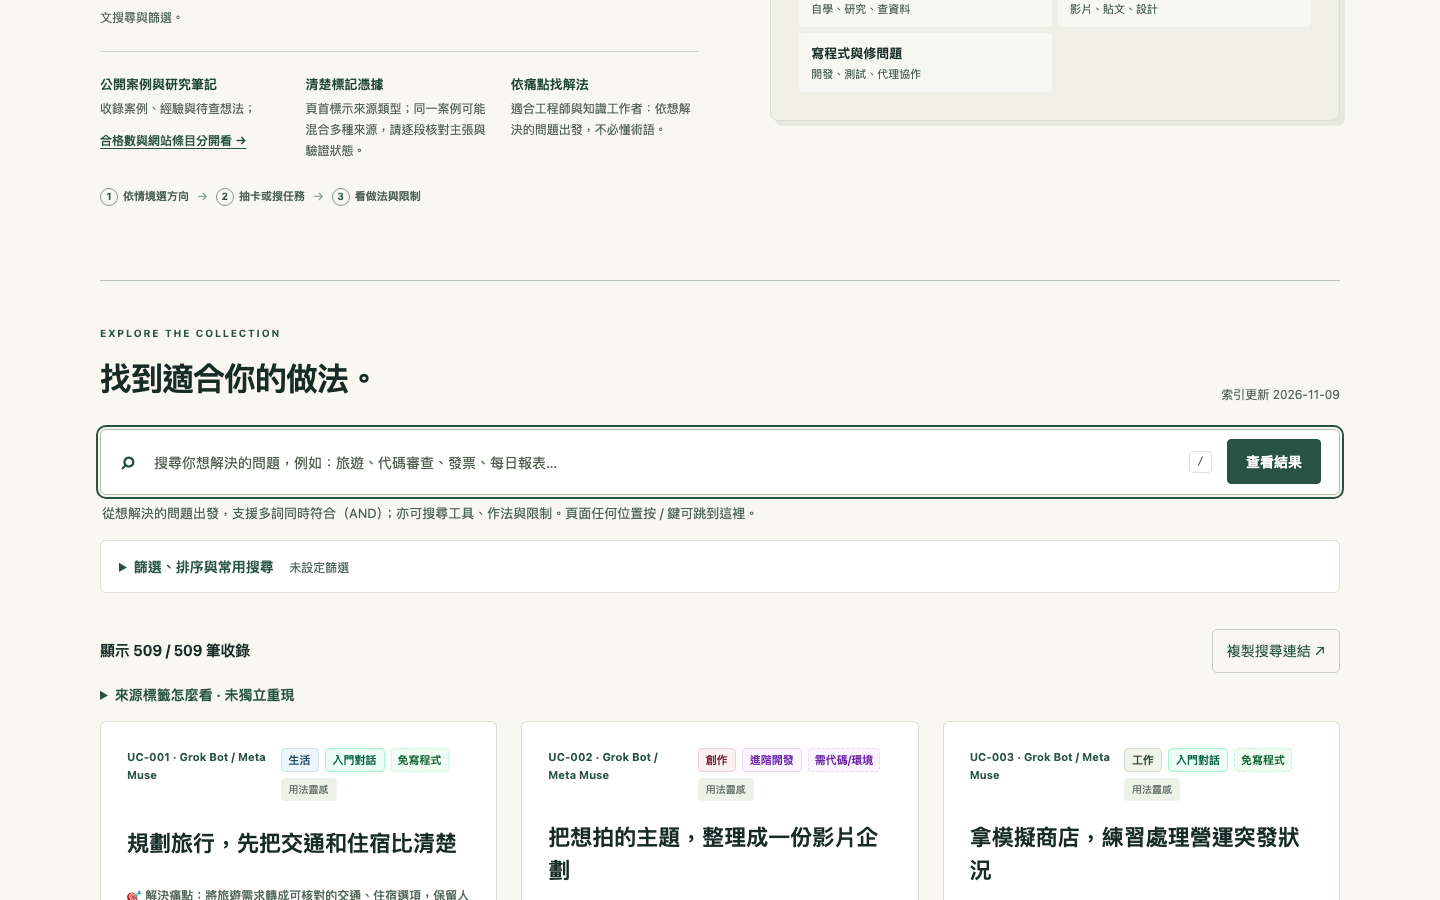
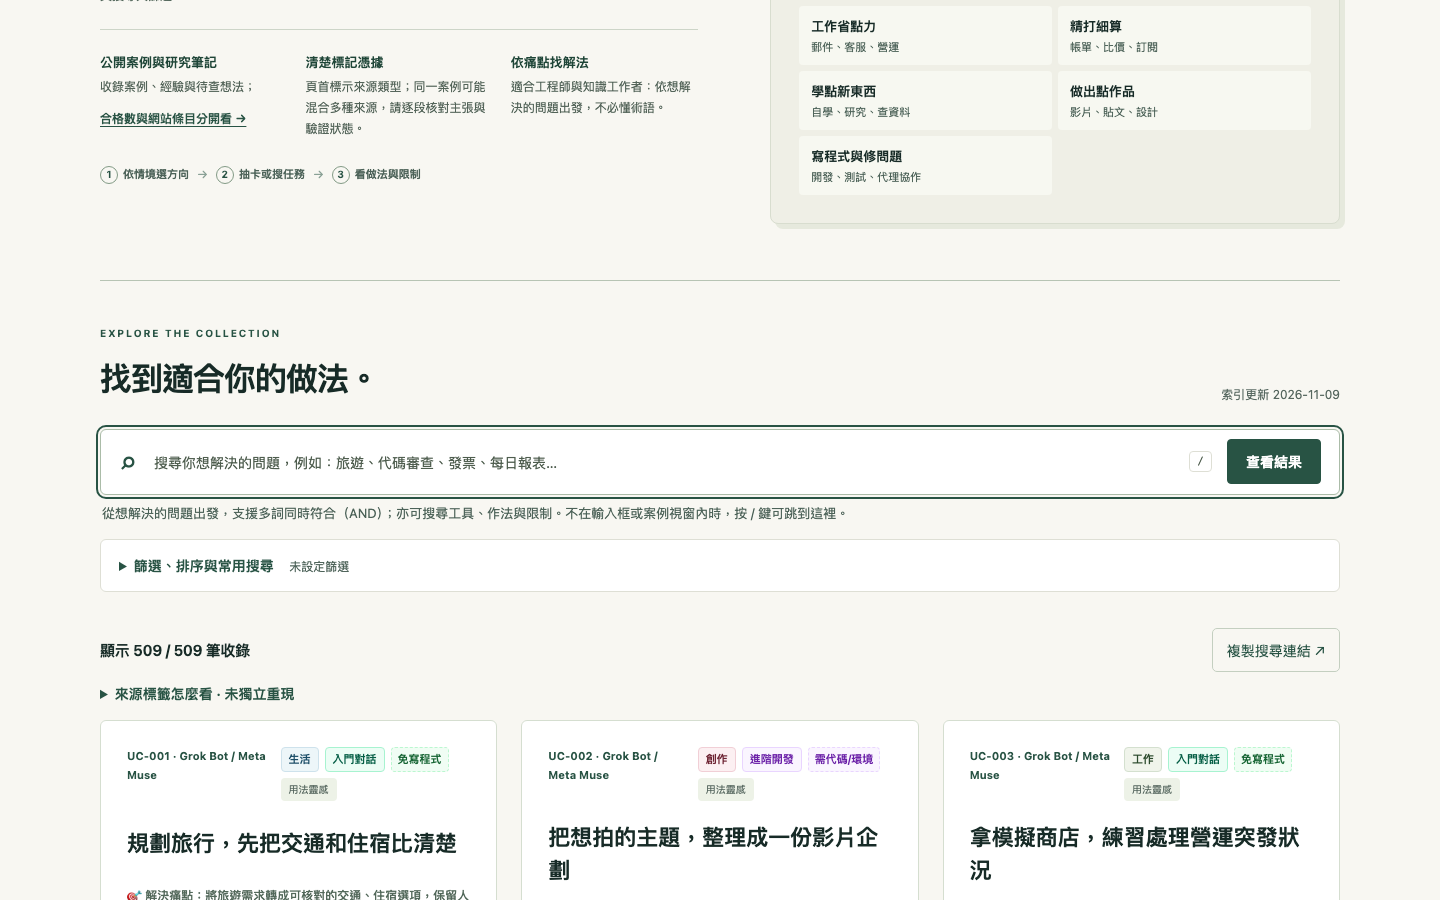
Speak the card a facet change replaced, and re-announce an empty pool
Independent review found two announcement gaps in 2c7e5e3f:

- A facet the reader chose that excluded the drawn card replaced it silently,
  because every automatic redraw used announce=false. The draw now compares the
  query with the one that produced the current deck: same query means the pool
  changed because of a facet (announce), a different query means the reader is
  typing (stay quiet).
- The empty-pool announcement was deduplicated by its text, so leaving the empty
  state and returning to it spoke nothing. Announcements now deduplicate on a
  state key (empty / card:<id> / milestone:<n>).

Also narrows the / shortcut hint to the contexts where the handler actually runs,
and corrects the QA record's measurement provenance (baseline local preview, not
the live site) plus its numbers.

Tests: 10 unit tests (was 9), browser test now also checks the facet-driven
replacement announcement.

diff --git a/index.html b/index.html
@@ -75,7 +75,7 @@
 </section>
 </div><section id="explore" class="explore"><div class="section-head"><div><p class="eyebrow">EXPLORE THE COLLECTION</p><h2 id="search-title" tabindex="-1">找到適合你的做法。</h2></div><span id="updated" class="muted"></span></div>
 <section id="missing-case" class="missing-case" aria-labelledby="missing-case-title" hidden><div><p class="eyebrow">分享連結未能開啟</p><h3 id="missing-case-title" tabindex="-1">找不到這個案例</h3><p id="missing-case-message" role="status" aria-live="polite" aria-atomic="true"></p><p>你仍可搜尋其他案例；原有關鍵字與篩選已保留。</p></div><button id="dismiss-missing-case" type="button">回到搜尋</button></section>
-<form id="filters" role="search"><label class="search-label" for="query">搜尋全部案例內容</label><div class="search-wrap"><span aria-hidden="true">⌕</span><input id="query" name="q" type="search" placeholder="搜尋你想解決的問題，例如：旅遊、代碼審查、發票、每日報表…" autocomplete="off" aria-describedby="search-hint search-submit-hint"><kbd aria-hidden="true">/</kbd><button id="search-submit" class="primary-button" type="submit" aria-describedby="search-submit-hint" disabled>查看結果</button></div><p id="search-hint" class="search-hint">從想解決的問題出發，支援多詞同時符合（AND）；亦可搜尋工具、作法與限制。頁面任何位置按 / 鍵可跳到這裡。</p><p id="search-submit-hint" class="sr-only">結果會即時更新；按 Enter 或「查看結果」前往閱讀。</p><details id="filter-options" class="filter-options" open><summary id="filter-summary">篩選、排序與常用搜尋 <span id="filter-count">未設定篩選</span></summary><div class="filter-panel"><div class="filter-outcome"><span id="filter-outcome-count">正在讀取案例…</span><button id="filter-view-results" type="button" disabled>查看結果與調整建議 ↓</button></div><div class="scenario-chips" id="scenario-chips" role="group" aria-label="依情境或常用搜尋快速探索">
+<form id="filters" role="search"><label class="search-label" for="query">搜尋全部案例內容</label><div class="search-wrap"><span aria-hidden="true">⌕</span><input id="query" name="q" type="search" placeholder="搜尋你想解決的問題，例如：旅遊、代碼審查、發票、每日報表…" autocomplete="off" aria-describedby="search-hint search-submit-hint"><kbd aria-hidden="true">/</kbd><button id="search-submit" class="primary-button" type="submit" aria-describedby="search-submit-hint" disabled>查看結果</button></div><p id="search-hint" class="search-hint">從想解決的問題出發，支援多詞同時符合（AND）；亦可搜尋工具、作法與限制。不在輸入框或案例視窗內時，按 / 鍵可跳到這裡。</p><p id="search-submit-hint" class="sr-only">結果會即時更新；按 Enter 或「查看結果」前往閱讀。</p><details id="filter-options" class="filter-options" open><summary id="filter-summary">篩選、排序與常用搜尋 <span id="filter-count">未設定篩選</span></summary><div class="filter-panel"><div class="filter-outcome"><span id="filter-outcome-count">正在讀取案例…</span><button id="filter-view-results" type="button" disabled>查看結果與調整建議 ↓</button></div><div class="scenario-chips" id="scenario-chips" role="group" aria-label="依情境或常用搜尋快速探索">
   <div class="chips-row">
     <span class="chips-title">依情境探索：</span>
     <button type="button" class="chip" data-scenario="生活" aria-pressed="false">🏖 生活日常</button>

diff --git a/docs/qa/2026-11-09-keyboard-search-entry/README.md b/docs/qa/2026-11-09-keyboard-search-entry/README.md
@@ -11,14 +11,14 @@
 
 目標使用者是**只用鍵盤或讀屏**第一次到站的人。首頁是長篇編輯頁：搜尋框在 hero、任務目錄與抽卡區之後。
 
-正式站實測（Chromium，`reducedMotion: reduce`，見 `before-measurements.json`）：
+量測方式是**基準版本的本機預覽**：`git worktree add --detach /tmp/aiuc-baseline-61225e78 61225e78` ＋ `scripts/preview.py`，以 Chromium（`reducedMotion: reduce`）開啟 `http://127.0.0.1:8098/ai-agent-use-cases/`；修改後以同樣方式開 `…:8097/…`。兩份數據都在 `before-measurements.json`／`after-measurements.json`（`url` 欄位記錄了受測來源），不是對 richardhan.github.io 的即時量測。首頁隨機抽卡的高度每次不同，因此「捲動量」與 `queryTop` 的絕對值會浮動；下表數字照抄該次 JSON，關鍵不變量是 `activeElement`、`location.hash` 與 live region 寫入次數。
 
 | 項目 | 1440×900 | 390×844 |
 | --- | --- | --- |
 | `#query` 之前的可聚焦元素 | 82 | 39 |
 | 第一個 Tab 停在哪 | `a.skip`「跳到案例探索」 | 同左 |
-| 按 Enter 之後 | `activeElement` = `BODY`，`location.hash=#discover`，捲到抽卡區（`queryTop` 1507px） | `BODY`，`#discover`（`queryTop` 1561px） |
-| 輸入 4 個字造成的 live region 寫入 | **12 次**（`draw-status` 4、`results-count` 4、`filter-outcome-count` 4） | 同左（手機兩個筆數區都可見，等於同一件事播兩次） |
+| 按 Enter 之後（基準） | `activeElement` = `BODY`，`location.hash=#discover`，捲到抽卡區（`scrollY` 128、`queryTop` 1400） | `BODY`，`#discover`（`scrollY` 1128、`queryTop` 1480） |
+| 輸入 4 個字造成的 live region 寫入（基準） | **12 次**（`draw-status` 4、`results-count` 4、`filter-outcome-count` 4） | 同左（手機兩個筆數區都可見，等於同一件事播兩次） |
 
 也就是說：跳至內容連結指向的是隨機抽卡區，不是搜尋表單，啟動後焦點回到 `body`；讀屏使用者每打一個字會收到三次播報，其中兩次是抽卡狀態與重複的結果筆數。另有 `#scenario-chips` 標成 `role="toolbar"` 卻沒有 roving tabindex／方向鍵，與 ARIA 對 toolbar「單一停留點」的承諾不符。
 
@@ -43,10 +43,11 @@
   - 新增 `announceDraw(text)`：只在文字真的改變時寫入 `#draw-announcer`。
   - `drawNext(announce=false)`：只有讀者自己按「抽一張／再抽一張」（`drawFromButton` 傳 `true`）才播報「已換一張：<標題>」；輸入關鍵字造成的自動換卡不播報，因為讀者正在打字。
   - 載入進度里程碑與載入失敗改由 announcer 播報，可見文字仍寫在 `#draw-status`。
-  - `syncDiscovery()`：補上 `discoveryKey=key`（原本這個守門變數只在載入開始被設成 `''`，等於永遠不生效，每次 render 都重建牌組）；空牌組時播報一次固定句子。
+  - `syncDiscovery()`：補上 `discoveryKey=key`（原本這個守門變數只在載入開始被設成 `''`，等於永遠不生效，每次 render 都重建牌組）；空牌組時播報一次固定句子，並用狀態鍵（`empty`／`card:<id>`／`milestone:<n>`）去重，讓「離開空狀態後再回到空狀態」仍會再播一次。
+  - 自動換卡是否播報，由「這次重繪的關鍵字是否與上次相同」決定：關鍵字沒變（讀者動的是情境／門檻等篩選）就播報新卡；關鍵字變了（正在打字）就保持安靜。
   - `.skip` 點擊時聚焦 `#query`（沒有 JS 時 `href="#query"` 仍會捲到同一個位置）。
-- `tests/keyboard-search-entry.test.cjs`（新，9 項）：bypass 目標、三個 live region 契約、`role="group"`、相同池不重建牌組也不改狀態、保留卡片不播報、自動換卡不播報、明確抽卡播一次、空牌組只播一次、同一張卡重抽不播。
-- `tests/keyboard-search-entry-browser.cjs`（新）：1440×900 與 390×844 各跑一次「Tab→Enter 到搜尋框且在視窗內」、輸入時 live 寫入只落在 `#results-count`、按「再抽一張」只播一則且含新標題、axe WCAG 2.1 AA 0 違規。
+- `tests/keyboard-search-entry.test.cjs`（新，10 項）：bypass 目標、三個 live region 契約、`role="group"`、相同池不重建牌組也不改狀態、保留卡片不播報、打字換卡不播報、**動篩選換卡要播報**、明確抽卡播一次、空牌組只播一次、**離開再回到空牌組要再播**。
+- `tests/keyboard-search-entry-browser.cjs`（新）：1440×900 與 390×844 各跑一次「Tab→Enter 到搜尋框且在視窗內」、輸入時 live 寫入只落在 `#results-count`、**讀者改門檻排除目前卡片時恰播一則且含新標題**、按「再抽一張」只播一則且含新標題、axe WCAG 2.1 AA 0 違規。
 - `.github/workflows/website-qa.yml`：updated-site 階段加入 `KEYBOARD_URL=… node tests/keyboard-search-entry-browser.cjs`。
 - `README.md`：補一段鍵盤動線與 `/` 快捷鍵的訪客可見說明。
 
@@ -54,22 +55,23 @@
 
 先紅後綠：
 
-- 單元測試複製到基準 `61225e78` 的隔離 checkout（`git worktree add --detach /tmp/aiuc-baseline-61225e78 61225e78`）執行 → `pass 1 / fail 8`（唯一通過的是「保留卡片不播報」，在基準上因為沒有 announcer 節點而顯得成立）。
-- 瀏覽器測試對基準預覽（`http://127.0.0.1:8098/ai-agent-use-cases/`）失敗於 `desktop: the bypass link must name the search destination`；修正後對預覽連跑 3 次全過，輸出 `KEYBOARD_SEARCH_ENTRY …`。
+- 單元測試複製到基準 `61225e78` 的隔離 checkout（`git worktree add --detach /tmp/aiuc-baseline-61225e78 61225e78`）執行 → `pass 0 / fail 10`。
+- 瀏覽器測試對基準預覽（`http://127.0.0.1:8098/ai-agent-use-cases/`）失敗於 `desktop: the bypass link must name the search destination`；修正後對預覽連跑 3 次全過，輸出 `KEYBOARD_SEARCH_ENTRY …`（含 `announcementsWhileTyping: 0`、`redrawAnnouncements: 1`、`facetAnnouncement: 已換一張：…`、`axeViolations: 0`）。
 
 修改後（`after-measurements.json`）：
 
 | 項目 | 1440×900 | 390×844 |
 | --- | --- | --- |
-| 第一個 Tab / Enter 後 | `INPUT#query`，`queryTop` 430px（視窗 900） | `INPUT#query`，`queryTop` 406px（視窗 844） |
+| 第一個 Tab / Enter 後 | `INPUT#query`，`queryTop` 430px（視窗 900）、`hash` 空 | `INPUT#query`，`queryTop` 406px（視窗 844） |
 | 輸入 4 個字的 live 寫入 | **4 次，全部是 `results-count`** | 同左 |
 | 可見文字仍更新 | `draw-status` 4 次、`filter-outcome-count` 4 次（非 live） | 同左 |
 | `#scenario-chips` role | `group` | `group` |
-| 按「再抽一張」 | 1 則「已換一張：<標題>」 | 同左 |
+| 按「再抽一張」（瀏覽器測試） | 1 則「已換一張：<標題>」 | 同左 |
+| 改門檻把目前卡片排除（瀏覽器測試） | 1 則「已換一張：<新標題>」 | 同左 |
 
 測試與走查（本機預覽，`scripts/preview.py` → `http://127.0.0.1:8097/ai-agent-use-cases/`）：
 
-- `node --test tests/*.test.cjs`：**527 通過、0 失敗**（基準 518＋新增 9）；`node --check assets/app.js`、`node --check assets/discovery.js` 通過。
+- `node --test tests/*.test.cjs`：**528 通過、0 失敗**（基準 518＋新增 10）；`node --check assets/app.js`、`node --check assets/discovery.js` 通過。
 - 受影響瀏覽器流程全數通過：`discovery`、`draw-stability`、`explore-visibility`（laptop/small-laptop/tall/phone）、`search-reveal-settle`、`substring-recovery`、`mobile-problem-tags`、`visitor-problem`（三尺寸、axe 0）、`home-search-entry`、`search-expansion-consistency`、`results-batching`（390/1440）、`search-submit-history`（390/1440）。
 - 三個必要情境（桌機與手機各一次，`after-scenarios.json`、`after-*-scenario*.png`）：
   1. 不知道工具名，輸入「我想整理家裡的帳單」→ 37 筆；開第一張卡讀到憑據標籤、成果主張來源、核讀狀態、安全採用建議與 10 個固定版本來源連結；Escape 後關鍵字與 37 筆都還在。
@@ -83,3 +85,14 @@
 - 只在本機 Chromium 量測與走查；Firefox／WebKit 的既有流程由各 workflow 涵蓋，本輪未逐一在本機重跑。`inspiration-handoff-browser` 在本機失敗於 `chromium-1440` 的第一個 handoff 斷言，對**未修改的基準預覽**以相同行號失敗（`/tmp/qa-kb-base`），判定為本機既有的時序問題，交由 CI 的 `discovery-round-qa`／`result-journey-qa` 判定。
 - 沒有真人使用研究；本輪量的是焦點位置、live region 寫入次數與 axe 結果。
 - `#results-count` 仍逐字更新並播報（搜尋即時回饋的主要通道），本輪只移除另外兩個重複／高頻的 live region。
+- 「改篩選換卡要播報」的判定靠比對上一次繪製時的關鍵字：若同一次操作同時改關鍵字與篩選（例如任務捷徑自帶 `q=`），換卡仍視為打字情境而不播報，只由結果筆數發聲。
+- `/` 快捷鍵在輸入框、下拉選單、文字區或案例視窗內不作用，提示文字已照此寫明。
+
+## 獨立審查與後續修正
+
+獨立 reviewer（未參與實作）對 `2c7e5e3f` 提出四點，前兩點為真並已修，第三點改文案，第四點是紀錄錯誤：
+
+1. 篩選造成的換卡原本完全靜音（`syncDiscovery` 一律 `drawNext()` 不播報）。已改為「關鍵字未變」時播報，並補單元與瀏覽器測試。
+2. 空牌組去重只看文字，離開後再回來不會重播。已改成以狀態鍵去重，並補測試。
+3. `/` 提示寫成「頁面任何位置」，但輸入框與案例視窗內實際無效。已改為「不在輸入框或案例視窗內時」。
+4. 紀錄原本把量測寫成「正式站實測」，但 JSON 記錄的是本機預覽、且數字是另一次執行。已改寫來源與數字（本節開頭）。

diff --git a/README.md b/README.md
@@ -16,7 +16,7 @@
 
 搜尋結果預設包含全文與相關詞；輸入搜尋詞後，可在結果上方選擇「主題」，只搜尋標題、用途、核心目標、分類、標籤及案例 ID，減少原文偶然提及的結果；也可選擇原有的「標題、用途與痛點」範圍。清空搜尋詞時選項會收起並重設。這只縮小文字命中範圍，可能漏掉相關案例，也不代表內容已實作或驗證；分享搜尋連結會保留有效查詢的選擇。
 
-鍵盤使用者不必先捲過整頁：按一次 Tab 會停在「跳到案例搜尋」，按 Enter 直接進入搜尋框；在頁面任何位置按 `/` 也會跳到搜尋框。搜尋框在頁面下方，不必先看過公開案例區。打字時只有結果筆數會更新，抽卡狀態與另一處重複的筆數不再逐字播報給讀屏。
+鍵盤使用者不必先捲過整頁：按一次 Tab 會停在「跳到案例搜尋」，按 Enter 直接進入搜尋框；不在輸入框或案例視窗內時，按 `/` 也會跳到搜尋框。搜尋框在頁面下方，不必先看過公開案例區。打字時只有結果筆數會更新，抽卡狀態與另一處重複的筆數不再逐字播報給讀屏；改動情境或門檻而換卡時，讀屏會唸出新卡標題。
 「經驗與踩坑」快捷按鈕會保留搜尋與其他篩選；案例載入完成時，套用或取消後直接前往結果。載入中或失敗時先保留選擇，不在稍後強制移動焦點。
 查無完全符合的案例時，若原句包含站上已用過的任務詞（案例標籤或搜尋同義詞），會先列出該詞與實際筆數，例如「原問題包含「省錢」→ 搜尋 62 筆」；點選後才替換關鍵字並保留其他篩選。原句若沒有可用詞彙，才只顯示常見任務捷徑。
 若整句是一個查無結果的中文複合詞，且能完整拆成站上既有的相鄰詞（例如「客戶抱怨」拆成「客戶」＋「抱怨」），會直接以這些詞同時符合搜尋，並在結果上方標明拆了哪些詞與實際筆數，可隨時切回「只找完整句子」。這只是字面拆詞，不是語意理解；已選篩選或含多個詞的查詢不適用。
